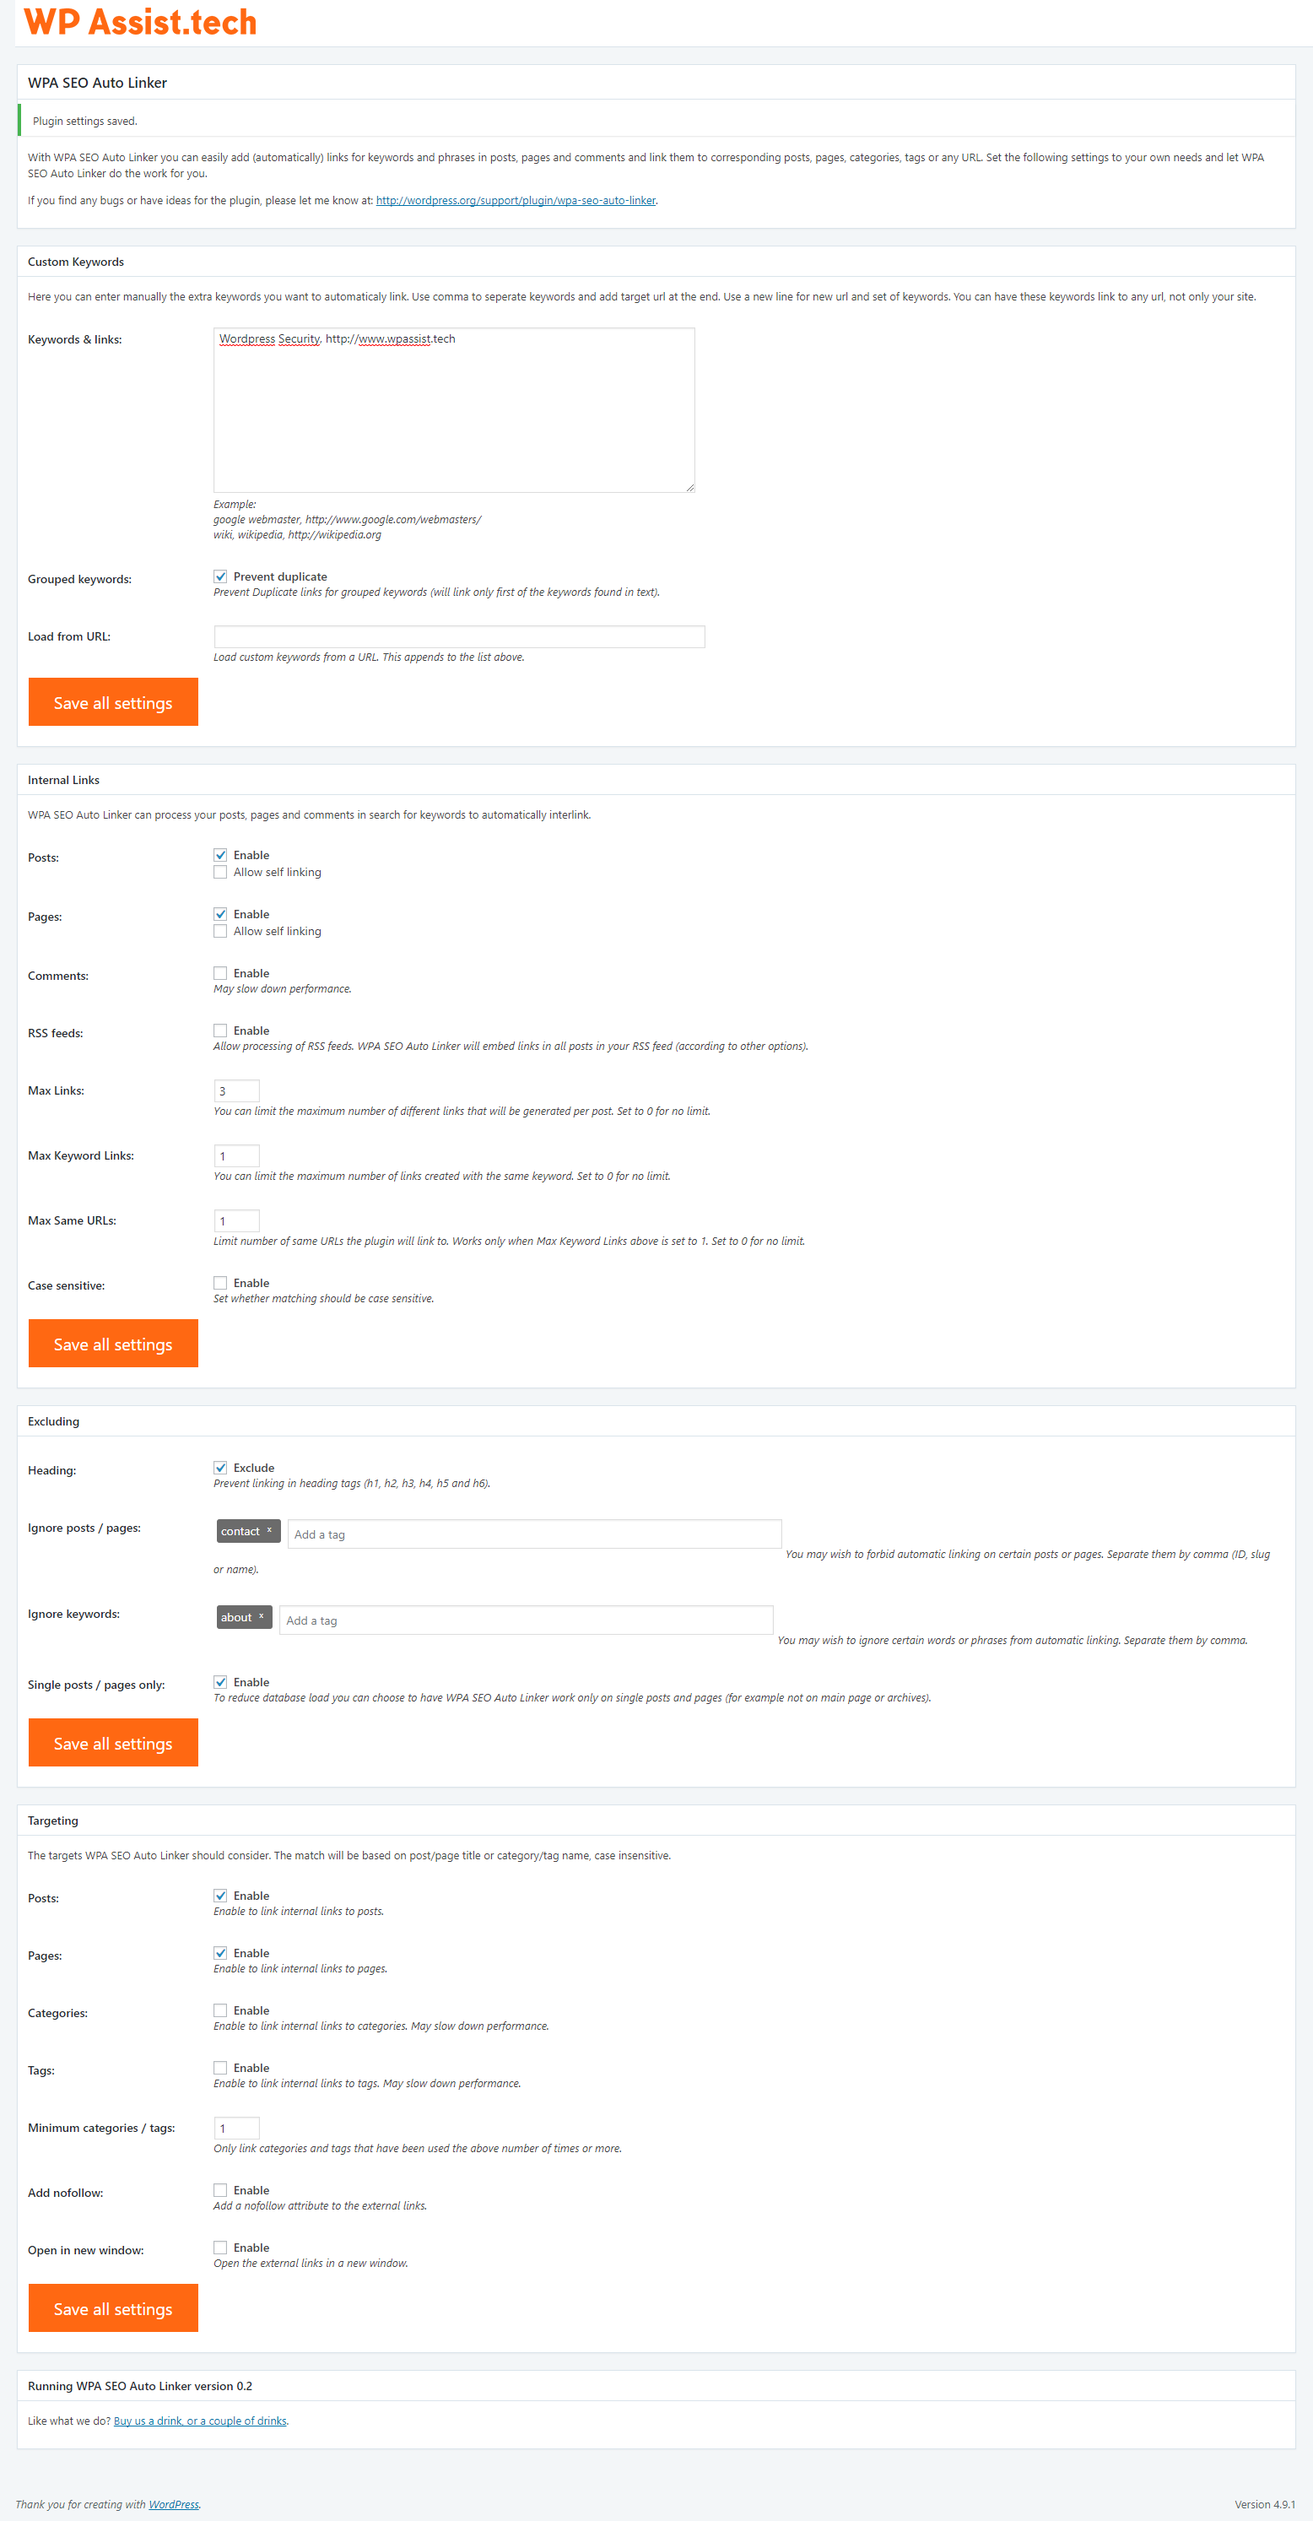
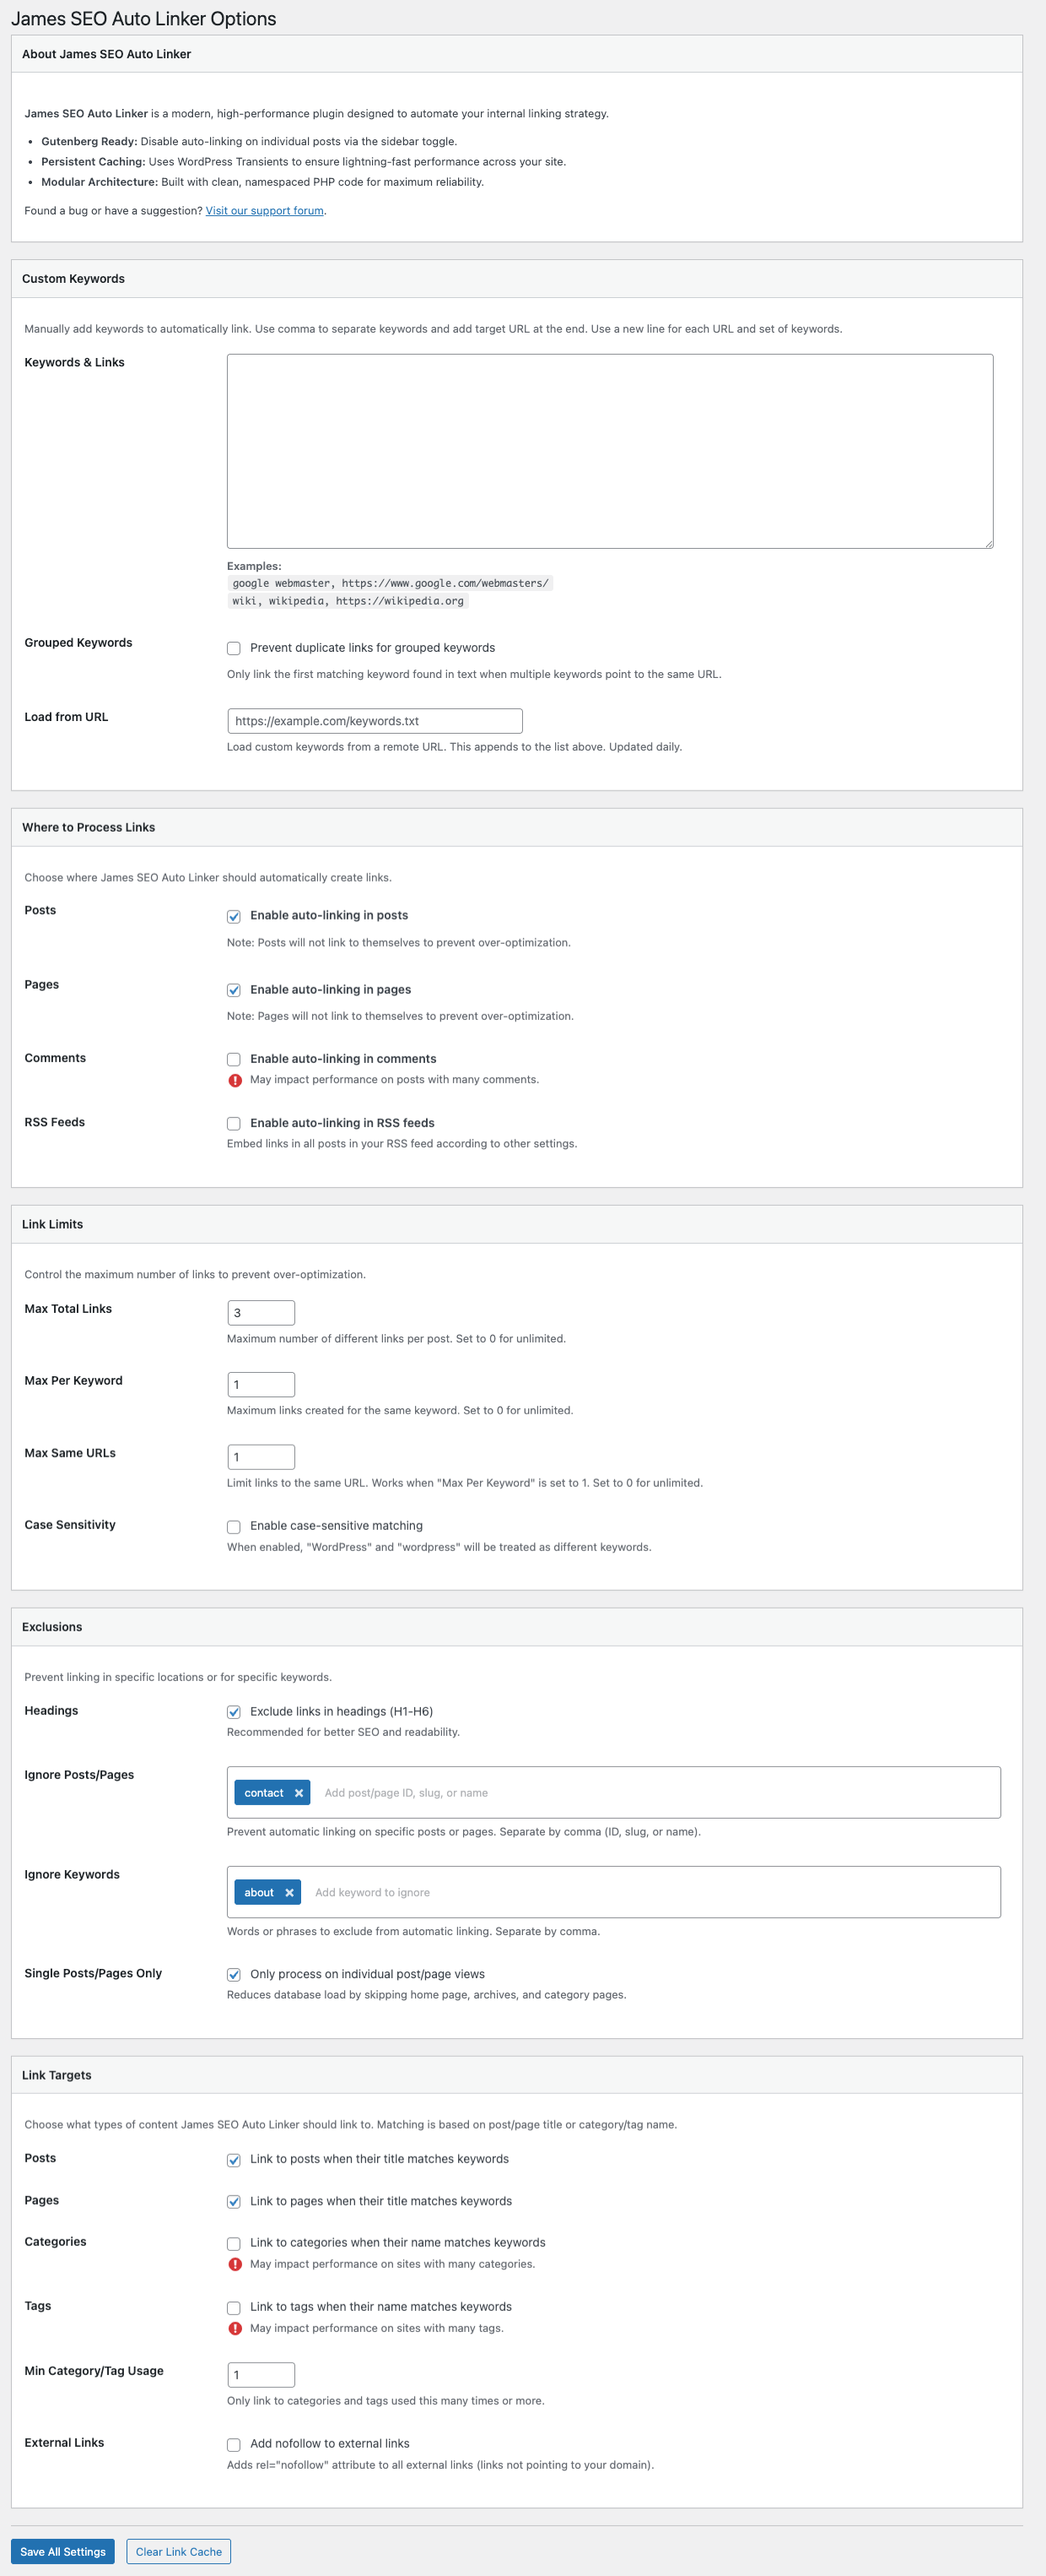
Integrate screenshot into documentation

diff --git a/README.md b/README.md
@@ -2,6 +2,8 @@
 
 **James SEO Auto Linker** is a lightweight WordPress plugin that automatically adds links for keywords and phrases in your content, boosting your internal linking strategy and overall SEO.
 
+![James SEO Auto Linker Settings](screenshot-1.png)
+
 ## Features
 
 - **Gutenberg Ready**: Integrated toggle in the Block Editor sidebar to disable auto-linking on a per-post basis.
